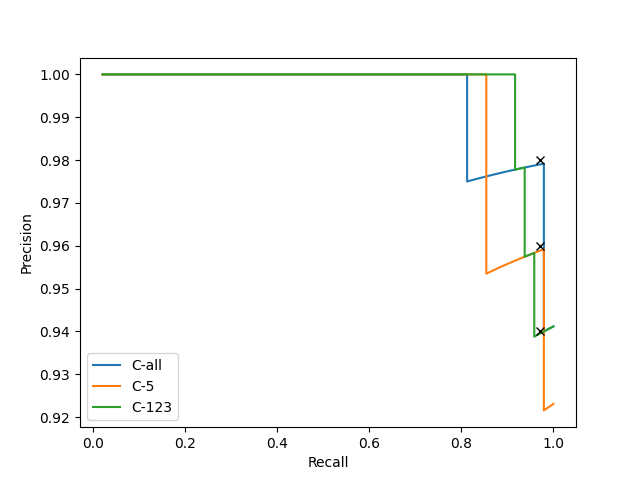
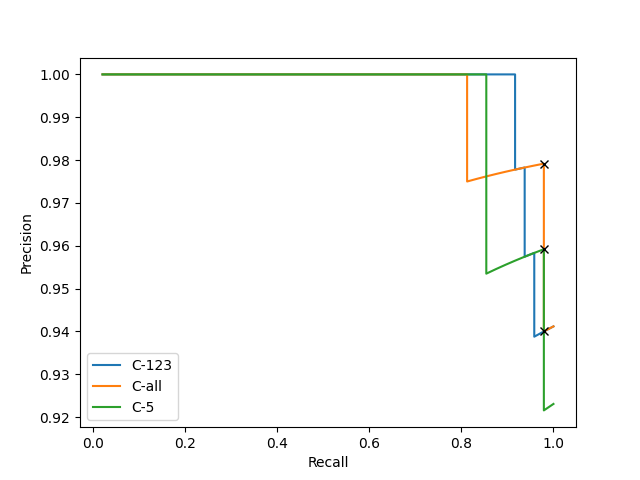
updated plot files, added script for recreating the plots

Changed region(s): [[0.7188, 0.125, 0.875, 0.875], [0.2188, 0.75, 0.2812, 0.8125], [0.2188, 0.8438, 0.2812, 0.875]]

diff --git a/evaluation.py b/evaluation.py
@@ -6,11 +6,12 @@ from tensorflow.keras.applications.mobilenet_v2 import preprocess_input
 from tensorflow.keras.models import load_model
 from detector import violaJones_face_detection, dnn_face_detection
 import os
-from sklearn.metrics import classification_report, precision_recall_curve, roc_auc_score
+from sklearn.metrics import classification_report, precision_recall_curve, \
+    roc_auc_score, average_precision_score, auc
 from sklearn.preprocessing import LabelBinarizer
 from tensorflow.keras.utils import to_categorical
 
-# face detection options (Just to make to code clean)
+# face detection options (Just to make the code clean)
 fd_options = {
     'ViolaJones': violaJones_face_detection,
     'DNN': dnn_face_detection
@@ -98,3 +99,102 @@ def test_model_on_test_images(classifier_path=None, fd_method='DNN', test_direct
         plt.grid
 
     return labels, pred_labels
+
+
+def script():
+    C123_path = "./experiments/classifier123/classifier123.model"
+    C5_path = "./experiments/classifier5/classifier5.model"
+    C_all_path = "./experiments/classifier_all/classifier_all.model"
+    lbls, C123_probs = test_model_on_test_images(C123_path)
+    lbls, C5_probs = test_model_on_test_images(C5_path)
+    lbls, C_all_probs = test_model_on_test_images(C_all_path)
+
+    precision123, recall123, thresholds123 = \
+        precision_recall_curve(y_true=lbls.argmax(axis=1), probas_pred=C123_probs[:, 1], pos_label=1)
+    precision5, recall5, thresholds5 = \
+        precision_recall_curve(y_true=lbls.argmax(axis=1), probas_pred=C5_probs[:, 1], pos_label=1)
+    precision_all, recall_all, thresholds_all = \
+        precision_recall_curve(y_true=lbls.argmax(axis=1), probas_pred=C_all_probs[:, 1], pos_label=1)
+
+    # finding threshold index
+    opt_ind123 = np.where(recall123 >= 0.97)
+    opt_ind5 = np.where(recall5 >= 0.97)
+    opt_ind_all = np.where(recall_all >= 0.97)
+
+    opt_ind123 = opt_ind123[-1]
+    opt_ind5 = opt_ind5[-1]
+    opt_ind_all = opt_ind_all[-1]
+    # pr curves
+    plt.plot(recall123[:-1], precision123[:-1], label="C-123")
+    plt.plot(recall_all[:-1], precision_all[:-1], label="C-all")
+    plt.plot(recall5[:-1], precision5[:-1], label="C-5")
+    plt.plot(recall123[(opt_ind123[-1])], precision123[(opt_ind123[-1])], 'xk')
+    plt.plot(recall5[(opt_ind5[-1])], precision5[(opt_ind5[-1])], 'xk')
+    plt.plot(recall_all[(opt_ind_all[-1])], precision_all[(opt_ind_all[-1])], 'xk')
+    plt.legend()
+    plt.xlabel("Recall")
+    plt.ylabel("Precision")
+    plt.savefig("./prcurves.png")
+    plt.show()
+
+    # individual precision and recall against threshold
+    plt.plot(thresholds123, precision123[:-1], label="precision")
+    plt.plot(thresholds123, recall123[:-1], label="recall")
+    plt.plot(thresholds123[opt_ind123[-1]], precision123[opt_ind123[-1]], 'xk')
+    plt.plot(thresholds123[opt_ind123[-1]], recall123[opt_ind123[-1]], 'xk')
+    plt.xlabel("Threshold")
+    plt.title("C-123 precision and recall curve")
+    plt.legend()
+    plt.savefig("./p&rcurve_c_123.png")
+    plt.show()
+
+    plt.plot(thresholds5, precision5[:-1], label="precision")
+    plt.plot(thresholds5, recall5[:-1], label="recall")
+    plt.plot(thresholds5[opt_ind5[-1]], precision5[opt_ind5[-1]], 'xk')
+    plt.plot(thresholds5[opt_ind5[-1]], recall5[opt_ind5[-1]], 'xk')
+    plt.xlabel("Threshold")
+    plt.legend()
+    plt.title("C-5 precision and recall curve")
+    plt.savefig("./p&rcurve_c_5.png")
+    plt.show()
+
+    plt.plot(thresholds_all, precision_all[:-1], label="precision")
+    plt.plot(thresholds_all, recall_all[:-1], label="recall")
+    plt.plot(thresholds_all[opt_ind_all[-1]], precision_all[opt_ind_all[-1]], 'xk')
+    plt.plot(thresholds_all[opt_ind_all[-1]], recall_all[opt_ind_all[-1]], 'xk')
+    plt.xlabel("Threshold")
+    plt.legend()
+    plt.title("C-all precision and recall curve")
+    plt.savefig("./p&rcurve_c_all.png")
+    plt.show()
+
+
+    print("AP C-123: {}"
+          .format(average_precision_score(y_true=lbls.argmax(axis=1),
+                                          y_score=C123_probs[:, 1],
+                                          pos_label=1)))
+    print("AP C-5: {}"
+          .format(average_precision_score(y_true=lbls.argmax(axis=1),
+                                          y_score=C5_probs[:, 1],
+                                          pos_label=1)))
+    print("AP C-all: {}"
+          .format(average_precision_score(y_true=lbls.argmax(axis=1),
+                                          y_score=C_all_probs[:, 1],
+                                          pos_label=1)))
+    print("AUC-ROC C-123: {}"
+          .format(roc_auc_score(y_true=lbls.argmax(axis=1),
+                                y_score=C123_probs[:, 1])))
+    print("AUC-ROC C-5: {}"
+          .format(roc_auc_score(y_true=lbls.argmax(axis=1),
+                                y_score=C5_probs[:, 1])))
+    print("AUC-ROC C-all: {}"
+          .format(roc_auc_score(y_true=lbls.argmax(axis=1),
+                                y_score=C_all_probs[:, 1])))
+    print("AUC-PR C-123: {}"
+          .format(auc(recall123, precision123)))
+    print("AUC-PR C-5: {}"
+          .format(auc(recall5, precision5)))
+    print("AUC_PR C-all: {}"
+          .format(auc(recall_all, precision_all)))
+
+script()
